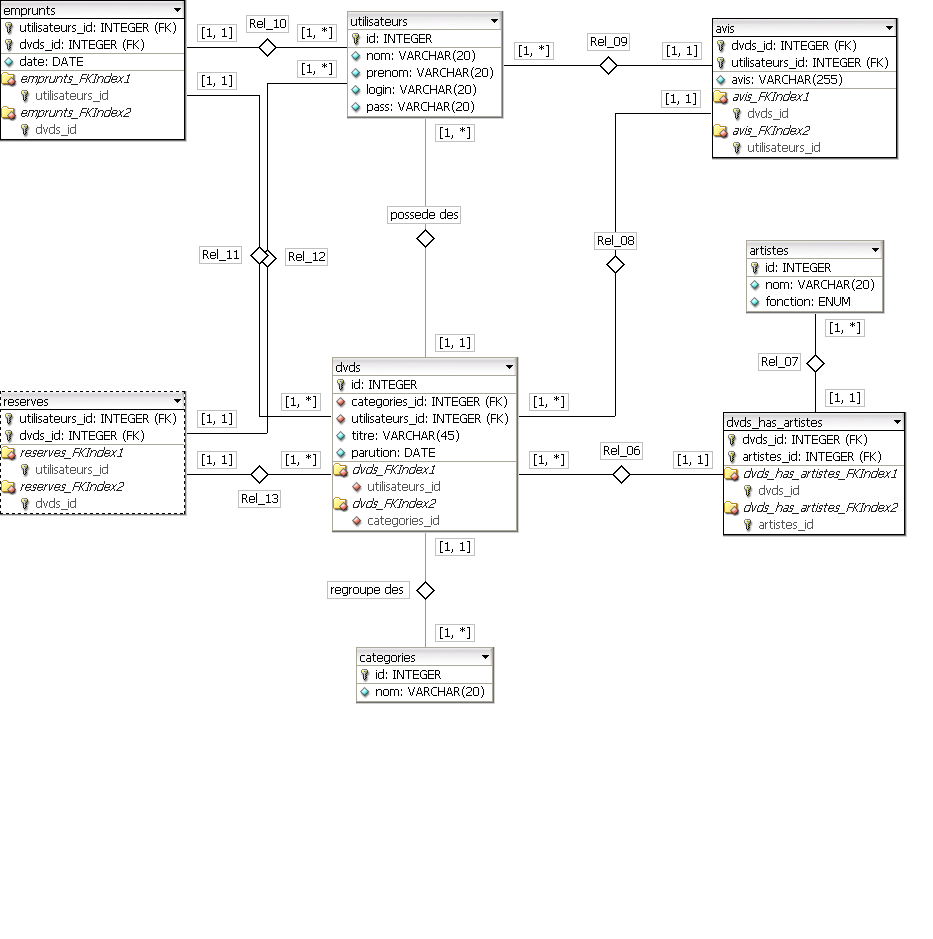
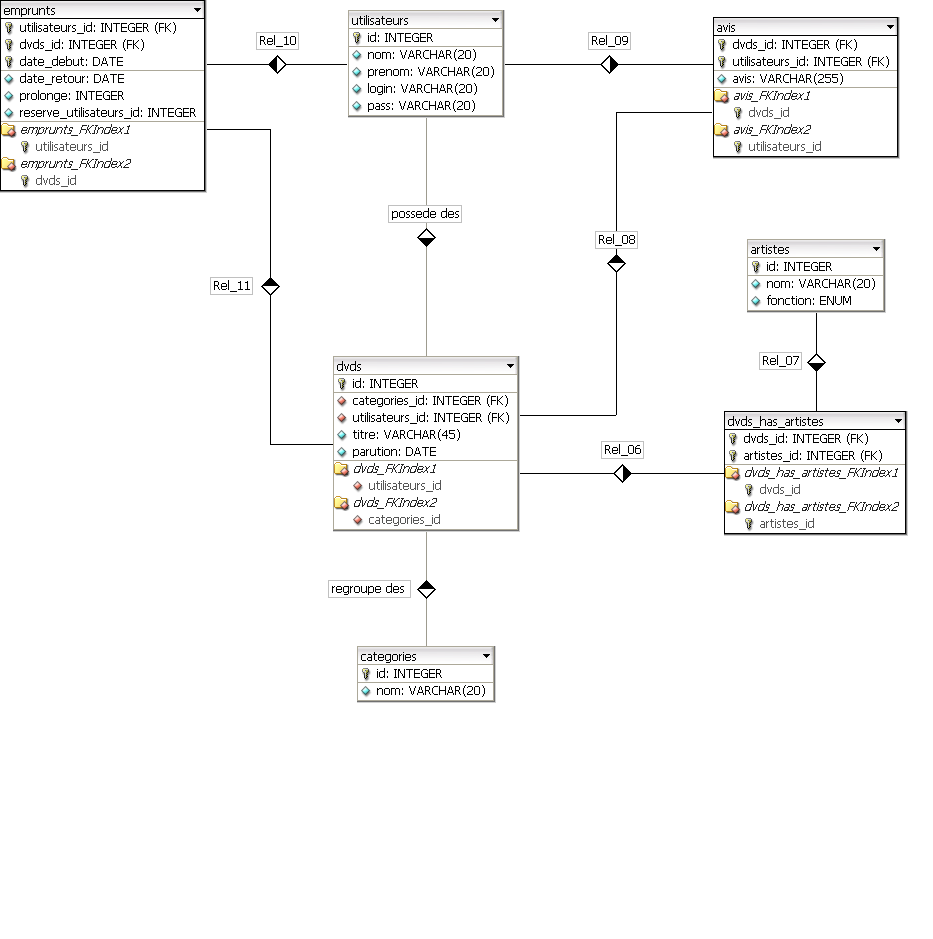
[Modify] Beaucoup de modifications mais tout est testé et fonctionne dont 'rechercher un dvd' et 'mes dvds'. Reste à prendre en compte les réservations/emprunts (cf. vues). [Modify] Source dbdesigner et image correspondante mis à jour des modifs de la table emprunts (suppression de la table reservat

diff --git a/bdi/TpDvdDelebarreWylleman/src/controllers/Search.java b/bdi/TpDvdDelebarreWylleman/src/controllers/Search.java
@@ -18,55 +18,35 @@ import javax.servlet.ServletException;
 
 public class Search extends Controller {
 	
-	/**
-	 * La fabrique de DAO.
-	 */
-	private DAOFactory factory;
-		
-	/**
-	 * L'utilisateur de la session en cours.
-	 */
-	private User user;
-	
-	public void init(ServletConfig config) throws ServletException {
-		try{
-			ServletContext context = config.getServletContext();
-			factory = (DAOFactory) context.getAttribute("factory");
-			user = (User) context.getAttribute("user");
-		} 
-		catch(Exception e) {
-			e.printStackTrace();
-		}
-	}
-    
 	public void doGet(HttpServletRequest request, HttpServletResponse response) throws IOException, ServletException {
-		this.search(request, response, null, -1, null);
+		this.search(request, response, null, "-1", null);
 	}
 	
 	public void doPost(HttpServletRequest request, HttpServletResponse response) throws IOException, ServletException {
-		int kindId = -1;
-		String title = null;
-		String date = null;
-		
-		title = request.getParameter("title");
+		String title = request.getParameter("title");
 		String tempKind = request.getParameter("kind");
-		date = request.getParameter("date");
+		String date = request.getParameter("date");
 		
-		kindId = Integer.parseInt(tempKind);
-		
-		this.search(request, response, title, kindId, date);
+		this.search(request, response, title, tempKind, date);
 	}
 	
-	private void search(HttpServletRequest request, HttpServletResponse response, String title, int kindId, String date) throws IOException, ServletException {
+	private void search(HttpServletRequest request, HttpServletResponse response, String title, String tempKind, String date) throws IOException, ServletException {
+		String source = request.getParameter("source");
+		String tempUser = request.getParameter("user");
 		try {			
-			DVDDAO dvdDAO = (DVDDAO) factory.getDAO("dvd");
-			List dvds = dvdDAO.search(title, kindId, date);
+			int kindId = -1;
+			if (tempKind != null && !tempKind.equals("") ) kindId = Integer.parseInt(tempKind);
+			int userId = -1;
+			if (tempUser != null && !tempUser.equals("") ) userId = Integer.parseInt(tempUser);
 			
-			super.forward("search", "message", dvds, request, response);
+			DVDDAO dvdDAO = (DVDDAO) factory.getDAO("dvd");
+			List dvds = dvdDAO.search(userId, title, kindId, date);
+			
+			super.forward(source, "message", dvds, request, response);
 		}
 		catch(Exception e) {
 			String error = "Impossible de poursuivre la recherche, une erreur est survenue: " + e.toString();
-			super.forward("search", "error", error, request, response);
+			super.forward(source, "error", error, request, response);
 		}
 	}
 	

diff --git a/bdi/TpDvdDelebarreWylleman/src/controllers/Controller.java b/bdi/TpDvdDelebarreWylleman/src/controllers/Controller.java
@@ -1,10 +1,66 @@
 package controllers;
 
-import java.io.*;
-import javax.servlet.*;
-import javax.servlet.http.*;
+import dao.business.KindDAO;
+import dao.core.DAOFactory;
+import dao.core.*;
+
+import java.util.List;
+
+import java.io.IOException;
+
+import javax.servlet.http.HttpServlet;
+import javax.servlet.http.HttpServletRequest;
+import javax.servlet.http.HttpServletResponse;
+import javax.servlet.ServletConfig;
+import javax.servlet.ServletContext;
+import javax.servlet.ServletException;
 
 public abstract class Controller extends HttpServlet {
+	
+	/**
+	 * La fabrique de DAO.
+	 */
+	protected DAOFactory factory;
+		
+	/**
+	 * Le contexte de la <code>Servlet</code>/
+	 */
+	protected ServletContext context;
+	
+	public void init(ServletConfig config) throws ServletException {
+		try{
+			// Recuperation du contexte.
+			context = config.getServletContext();
+			
+			// Creation, si elle ne l'est pas, de la fabrique de DAO.
+			factory = (DAOFactory) context.getAttribute("factory");
+			if ( factory == null ) {
+				System.out.println("Construction de la fabrique de DAO en cours.");
+				String factoryType = context.getInitParameter("factory");
+				Class c = Class.forName(factoryType);
+				factory = (DAOFactory) c.newInstance();
+				
+				if (factory == null) throw new Exception("Boom - No DAOFactory");
+				context.setAttribute("factory", factory);
+				System.out.println("Construction de la fabrique de DAO finie.");
+			}
+			
+			// Creation, si elle ne l'est pas, de la liste des categories.
+			List kinds = (List) context.getAttribute("kinds");
+			if ( kinds == null  ) {
+				System.out.println("Construction de la liste des categories en cours.");
+				KindDAO kindDAO = (KindDAO) factory.getDAO("kind");
+				kinds = kindDAO.search(null);
+				
+				if (kinds == null) throw new Exception("Boom - No kind");
+				context.setAttribute("kinds", kinds);
+				System.out.println("Construction de la liste des categories finie.");
+			}
+		} 
+		catch(Exception e) {
+			e.printStackTrace();
+		}
+	}
     
 	protected void forward(String source, HttpServletRequest request, HttpServletResponse response) throws IOException, ServletException {
 		request.getRequestDispatcher("/view.jsp?action="+source).forward(request, response);

diff --git a/bdi/TpDvdDelebarreWylleman/src/controllers/Add.java b/bdi/TpDvdDelebarreWylleman/src/controllers/Add.java
@@ -21,33 +21,20 @@ import javax.servlet.ServletException;
 
 public class Add extends Controller {
 	
-	/**
-	 * La fabrique de DAO.
-	 */
-	private DAOFactory factory;
-	
-	/**
-	 * L'utilisateur de la session en cours.
-	 */
-	private User user;
-	
-	public void init(ServletConfig config) throws ServletException {
-		try {
-			ServletContext context = config.getServletContext();
-			factory = (DAOFactory) context.getAttribute("factory");
-			user = (User) context.getAttribute("user");
-		} 
-		catch(Exception e) {
-			e.printStackTrace();
-		}
+	public void doGet(HttpServletRequest request, HttpServletResponse response) throws IOException, ServletException {
+		// Impossible d'ajouter un DVD par la methode GET !!!
+		// On transmet sans rien faire.
+		super.forward("", request, response);
 	}
-    
+	
 	public void doPost(HttpServletRequest request, HttpServletResponse response) throws IOException, ServletException {
 		int kindId = -1;
 		String title = null;
 		Date date = null;
 		
 		try {
+			User user = (User) context.getAttribute("user");
+			
 			title = request.getParameter("title");
 			String tempKind = request.getParameter("kind");
 			String tempDate = request.getParameter("date");
@@ -81,7 +68,7 @@ public class Add extends Controller {
 				
 				dvdDAO.update(dvd);
 				
-				String message = "Le DVD " + title + " paru le " + date + " a bien &eacute;t&eacute; ajout&eacute; sous la cat&eacute;gorie " + kind.getName() + ".";
+				String message = "Le DVD <b>" + title + "</b> paru le <u>" + date + "</u> a bien &eacute;t&eacute; ajout&eacute; sous la cat&eacute;gorie <i>" + kind.getName() + "</i>.";
 				super.forward("", "message", message, request, response);
 			}
 		}

diff --git a/bdi/TpDvdDelebarreWylleman/src/controllers/PrepareKinds.java b/bdi/TpDvdDelebarreWylleman/src/controllers/PrepareKinds.java
@@ -16,26 +16,6 @@ import javax.servlet.ServletException;
 
 public class PrepareKinds extends Controller {
 	
-	/**
-	 * La fabrique de DAO.
-	 */
-	private DAOFactory factory;
-		
-	/**
-	 * Le contexte de la <code>Servlet</code>/
-	 */
-	private ServletContext context;
-	
-	public void init(ServletConfig config) throws ServletException {
-		try {
-			context = config.getServletContext();
-			factory = (DAOFactory) context.getAttribute("factory");
-		} 
-		catch(Exception e) {
-			e.printStackTrace();
-		}
-	}
-	
 	public void doPost(HttpServletRequest request, HttpServletResponse response) throws IOException, ServletException {
 		this.doGet(request, response);
 	}
@@ -45,10 +25,11 @@ public class PrepareKinds extends Controller {
 		try {
 			List kinds = (List) context.getAttribute("kinds");
 			if ( kinds == null || kinds.isEmpty() ) {
-				System.out.println("Construction de la liste des categories.");
+				System.out.println("Construction de la liste des categories en cours.");
 				KindDAO kindDAO = (KindDAO) factory.getDAO("kind");
 				kinds = kindDAO.search(null);
 				context.setAttribute("kinds", kinds);
+				System.out.println("Construction de la liste des categories finie.");
 			}
 			super.forward(source, request, response);
 		} catch(Exception e) {

diff --git a/bdi/TpDvdDelebarreWylleman/src/dao/postgresql/PostGreSQLDVDDAO.java b/bdi/TpDvdDelebarreWylleman/src/dao/postgresql/PostGreSQLDVDDAO.java
@@ -69,10 +69,11 @@ public class PostGreSQLDVDDAO implements DVDDAO {
 	}
 	
 	/* (non-Javadoc)
-     * @see dao.business.DVDDAO#search(String, int, String)
+     * @see dao.business.DVDDAO#search(int, String, int, String)
      */
-	public List search(String title, int kind, String date) throws DAOException {
+	public List search(int owner, String title, int kind, String date) throws DAOException {
 		String query = "SELECT * FROM dvds WHERE TRUE" ;
+		if ( owner != -1 ) query += " AND utilisateurs_id = " + owner ;
 		if ( title != null ) query += " AND titre ~~ '%" + title + "%'" ;
 		if ( kind != -1 ) query += " AND categories_id = " + kind ;
 		if ( date != null ) query += " AND parution ~~ '%" + date + "%'" ;
@@ -91,7 +92,7 @@ public class PostGreSQLDVDDAO implements DVDDAO {
 				DVD currentDVD = new DVD(rs.getInt("id"));
 				currentDVD.setKind(Integer.parseInt(rs.getString("categories_id")));
 				currentDVD.setUser(Integer.parseInt(rs.getString("utilisateurs_id")));
-				currentDVD.setTitle(rs.getString("title"));
+				currentDVD.setTitle(rs.getString("titre"));
 				currentDVD.setDate(Date.valueOf(rs.getString("parution")));
 				result.add(currentDVD);
 			}

diff --git a/bdi/TpDvdDelebarreWylleman/src/controllers/Login.java b/bdi/TpDvdDelebarreWylleman/src/controllers/Login.java
@@ -16,31 +16,10 @@ import javax.servlet.ServletException;
 
 public class Login extends Controller {
 	
-	/**
-	 * La fabrique de DAO.
-	 */
-	private DAOFactory factory;
-		
-	/**
-	 * Le contexte de la <code>Servlet</code>/
-	 */
-	private ServletContext context;
-	
-	public void init(ServletConfig config) throws ServletException {
-		try{
-			context = config.getServletContext();
-			
-			String factoryType = config.getInitParameter("factory");
-			
-			Class c = Class.forName(factoryType);
-			factory = (DAOFactory) c.newInstance();
-			if (factory == null) throw new Exception("Boom - No DAOFactory");
-			
-			context.setAttribute("factory", factory);
-		} 
-		catch(Exception e) {
-			e.printStackTrace();
-		}
+	public void doGet(HttpServletRequest request, HttpServletResponse response) throws IOException, ServletException {
+		// Impossible de s'identifier par la methode GET !!!
+		// On transmet sans rien faire.
+		super.forward("", request, response);
 	}
 	
 	public void doPost(HttpServletRequest request, HttpServletResponse response) throws IOException, ServletException {

diff --git a/bdi/TpDvdDelebarreWylleman/src/dao/business/DVDDAO.java b/bdi/TpDvdDelebarreWylleman/src/dao/business/DVDDAO.java
@@ -28,11 +28,12 @@ public interface DVDDAO extends ModelDAO {
 	 * Cherche et renvoie le liste de tous les dvds satisfaisants les criteres passes en parametre.
 	 * La liste renvoyee est vide si aucun enregistrement ne correspond aux criteres de selection specifies.
 	 * Lance une exception de type <code>DAOException</code> si une erreur survient.
+	 * @param owner L'identifiant du proprietaire des dvds a chercher.
 	 * @param title Le titre des dvds a chercher.
 	 * @param kind L'identifiant de la categorie des dvds a chercher.
 	 * @param date La date des dvds a chercher.
 	 * @return la liste des dvds (jamais <code>null</code>).
 	 */
-	public List search(String title, int kind, String date) throws DAOException;
+	public List search(int owner, String title, int kind, String date) throws DAOException;
 	
 }

diff --git a/bdi/TpDvdDelebarreWylleman/src/controllers/Logout.java b/bdi/TpDvdDelebarreWylleman/src/controllers/Logout.java
@@ -15,18 +15,8 @@ import javax.servlet.ServletException;
 
 public class Logout extends Controller {
 	
-	/**
-	 * Le contexte de la <code>Servlet</code>/
-	 */
-	private ServletContext context;
-	
-	public void init(ServletConfig config) throws ServletException {
-		try{
-			context = config.getServletContext();
-		} 
-		catch(Exception e) {
-			e.printStackTrace();
-		}
+	public void doPost(HttpServletRequest request, HttpServletResponse response) throws IOException, ServletException {
+		this.doGet(request, response);
 	}
 	
 	public void doGet(HttpServletRequest request, HttpServletResponse response) throws IOException, ServletException {
